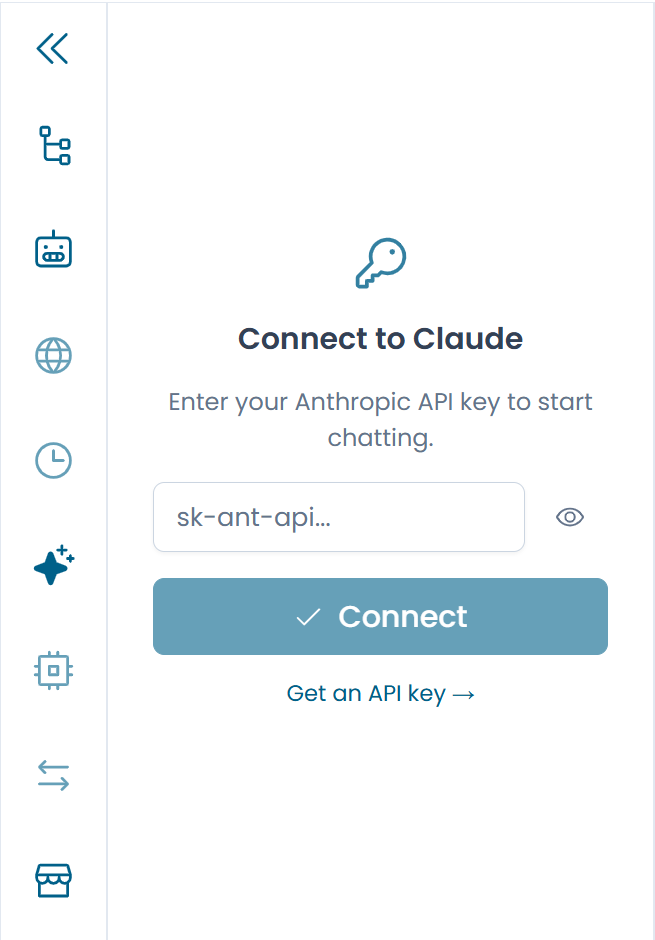
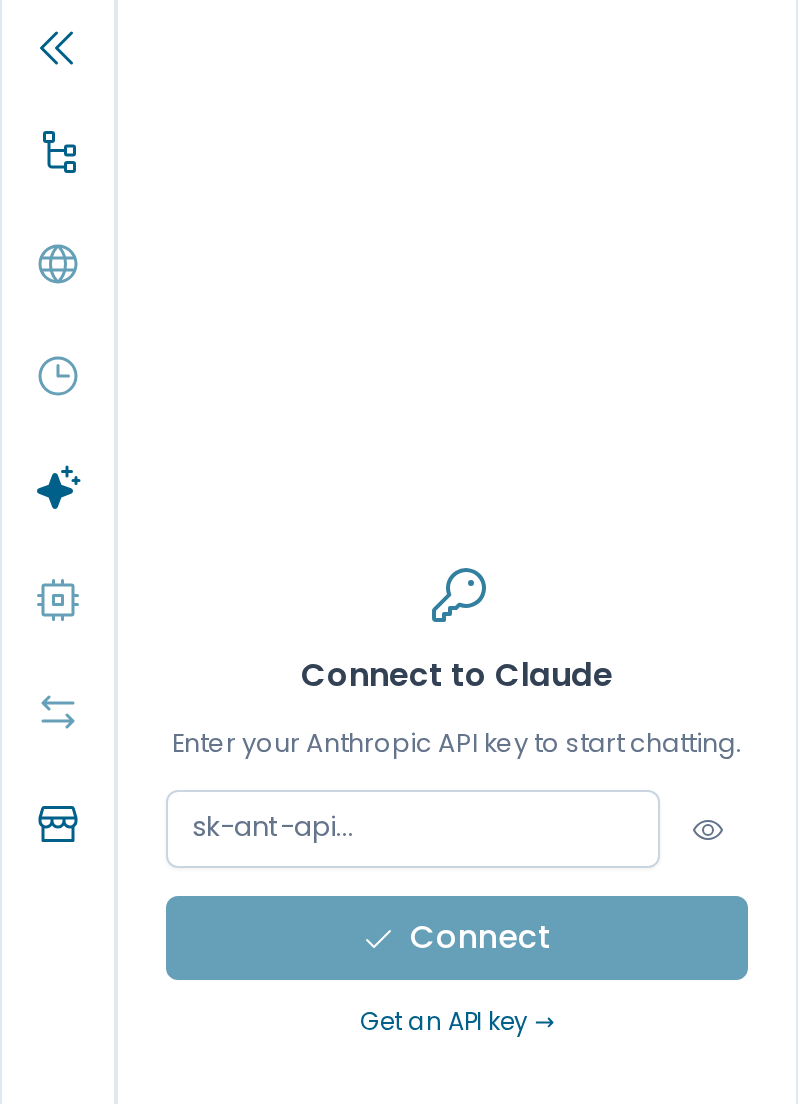
docs: aggiorna la pagina Setup di Arianna (chiave, lingua, modelli)
- Il pulsante della chiave è Connect, con l'occhio per mostrarla; l'icona
  del menu è AI Assistant, non Wand
- Change API key toglie solo la chiave: le sessioni chat restano
- Popover della lingua con EN/IT e nuova figura
- Nuova sezione Models: gruppi, Recommended/Custom, dialog di
  configurazione e avviso per le configurazioni non provate
- Voce di navigazione rinominata in "Setup"

Fixes #2

diff --git a/docs/designer/arianna/setup.it.md b/docs/designer/arianna/setup.it.md
@@ -1,25 +1,31 @@
-# Configurazione — API Key
+# Configurazione
 
 Arianna richiede una API key di Anthropic per funzionare. La chiave viene salvata localmente nel tuo browser e non viene mai inviata ai server di Xautomata — viene usata esclusivamente per le chiamate dirette all'API di Claude.
+
+Questa pagina descrive anche le due preferenze della chat: la lingua delle risposte e i modelli di Claude.
 
 ---
 
 ## Inserire la chiave
 
-Clicca sull'icona **Wand** nella barra laterale sinistra per aprire il pannello AI Assistant. Se non è configurata nessuna chiave, compare un prompt che ti chiede di inserirla.
+Clicca sull'icona **AI Assistant** (la scintilla) nella barra laterale sinistra per aprire il pannello AI Assistant. Se non è configurata nessuna chiave, compare la schermata **Connect to Claude**.
 
-Incolla la tua API key di Anthropic e clicca **Confirm**. La chiave viene validata immediatamente; se non è valida o non ha i permessi necessari, viene mostrato un messaggio di errore.
+Incolla la tua API key di Anthropic e clicca **Connect**. Clicca sull'**icona a forma di occhio** accanto al campo per mostrare o nascondere la chiave. La chiave viene validata immediatamente; se non è valida o non ha i permessi necessari, sotto il campo compare un messaggio di errore.
 
-![Il prompt di inserimento API key nel pannello AI Assistant](../../images/designer/arianna/setup_api_key.png)
+Se non hai ancora una chiave, clicca **Get an API key →** per aprire la console di Anthropic.
+
+![La schermata Connect to Claude nel pannello AI Assistant](../../images/designer/arianna/setup_api_key.png)
 /// caption
-Fig.1 - Il prompt di inserimento della API key
+Fig.1 - La schermata Connect to Claude
 ///
 
 ---
 
 ## Rimuovere la chiave
 
-Per cancellare la chiave salvata — ad esempio prima di lasciare un computer condiviso — apri il pannello AI Assistant e clicca sull'**icona a forma di chiave** (Change API key). Questa operazione disconnette Arianna e rimuove tutte le sessioni chat collegate a file del repository. Le sessioni collegate a file caricati localmente vengono conservate.
+Per cancellare la chiave salvata — ad esempio prima di lasciare un computer condiviso — apri il pannello AI Assistant e clicca sull'**icona a forma di chiave** (Change API key) nell'intestazione della chat. Arianna si disconnette e compare di nuovo la schermata **Connect to Claude**.
+
+Le sessioni chat restano: quando inserisci di nuovo una chiave, le ritrovi come le avevi lasciate.
 
 ---
 
@@ -32,7 +38,47 @@ Per cancellare la chiave salvata — ad esempio prima di lasciare un computer co
 
 La lingua di risposta di Arianna è una preferenza globale che si applica a tutte le sessioni chat. Controlla sia la lingua con cui Claude risponde, sia i testi dell'interfaccia all'interno del pannello chat (placeholder, messaggi di stato vuoto e call-to-action).
 
-Per cambiare la lingua, clicca sull'**icona della bandiera** nell'intestazione della chat. Si apre un piccolo popover con le opzioni disponibili — attualmente **Inglese** (predefinito) e **Italiano**. Seleziona quella desiderata per applicarla immediatamente; la preferenza viene salvata in un cookie del browser e persiste tra le sessioni.
+Per cambiare la lingua, clicca sull'**icona della bandiera** nell'intestazione della chat. Si apre un piccolo popover con le opzioni disponibili — attualmente **EN** (inglese, predefinito) e **IT** (italiano). La lingua attiva ha un segno di spunta. Seleziona quella desiderata per applicarla immediatamente; la preferenza viene salvata in un cookie del browser e persiste tra le sessioni.
+
+![Il popover della lingua nell'intestazione della chat](../../images/designer/arianna/language_popover.png)
+/// caption
+Fig.2 - Il popover della lingua
+///
 
 !!! note
     L'impostazione della lingua è indipendente dalla lingua in cui scrivi. Anche se scrivi in inglese, Claude risponderà nella lingua impostata qui — e viceversa.
+
+---
+
+## Modelli
+
+Arianna usa tre modelli di Claude, uno per ogni gruppo di attività:
+
+| Gruppo | Cosa fa |
+|---|---|
+| **Generation** | Scrive lo scenario e l'XAL e risponde in chat. Lo usano la chat, Generate/Update Scenario, Generate XAL, Sync Scenario e Verify XAL Consistency. |
+| **Extraction** | Legge lo scenario e completa i dettagli dell'XAL (Global State, Action e Metric) durante Generate XAL. |
+| **Assistance** | Risposte e testi brevi: la chat User Guide e il messaggio di commit. |
+
+Il pulsante **Model** nell'intestazione della chat mostra la configurazione attiva:
+
+- **Recommended** (consigliata): i modelli provati da Xautomata. È quella predefinita.
+- **Custom** (personalizzata): hai cambiato almeno un modello. Il pulsante diventa arancione, con il tooltip *Untested model configuration*.
+
+Il pulsante compare quando è aperta una sessione chat (vedi Fig.2).
+
+Per cambiare i modelli, clicca il pulsante **Model**. Si apre il dialog **AI Assistant model configuration**:
+
+1. Per ogni gruppo, scegli un modello dall'elenco. L'elenco mostra i modelli che la tua API key può usare.
+2. Clicca **Details** sotto un gruppo per vedere le impostazioni di ragionamento (*reasoning*) e di impegno (*effort*). Sono in sola lettura.
+3. Clicca **Save**. Per tornare ai modelli consigliati, clicca **Restore default** (compare solo con una configurazione personalizzata), poi **Save**.
+
+![Il dialog di configurazione dei modelli](../../images/designer/arianna/model_settings_dialog.png)
+/// caption
+Fig.3 - Il dialog AI Assistant model configuration
+///
+
+!!! warning "Configurazione non provata"
+    Con una configurazione personalizzata il dialog mostra un avviso: il risultato può essere diverso da quello della configurazione consigliata. Succede lo stesso se la tua API key non può usare un modello consigliato: Arianna usa un altro modello al suo posto, e il dialog ti dice quale.
+
+Come la lingua, la configurazione dei modelli viene salvata in un cookie del browser e vale per tutte le sessioni chat.
